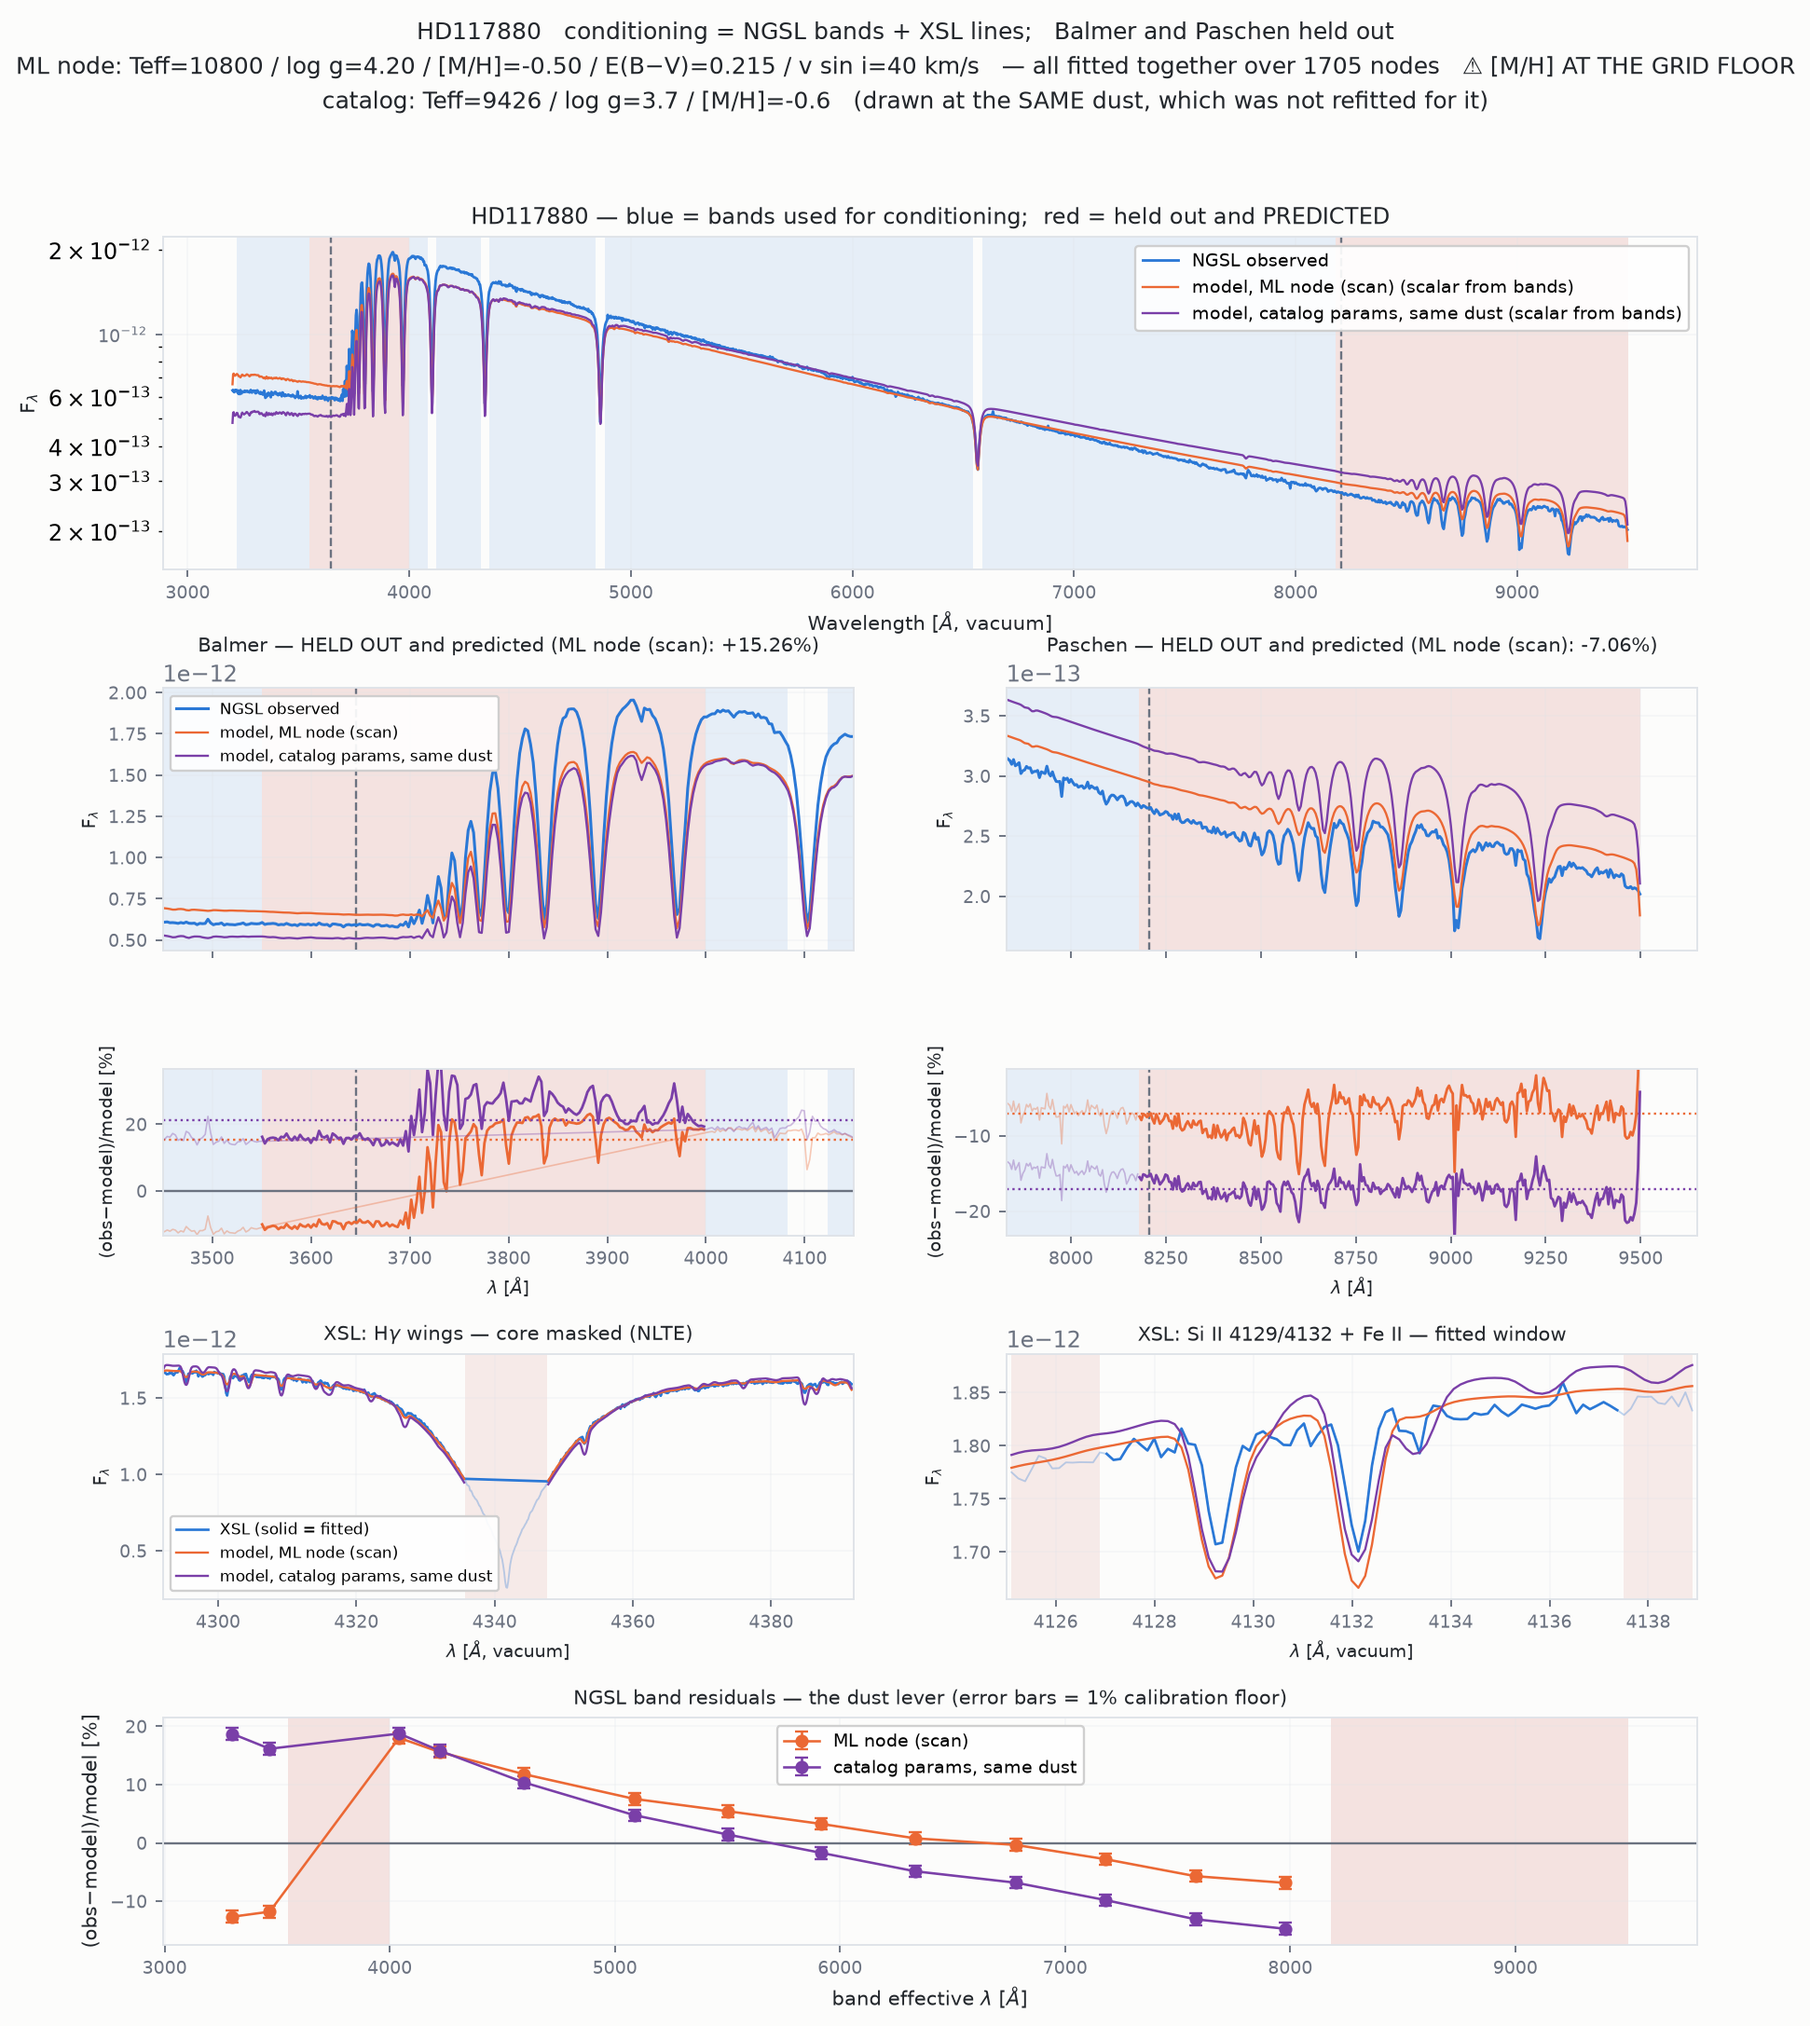
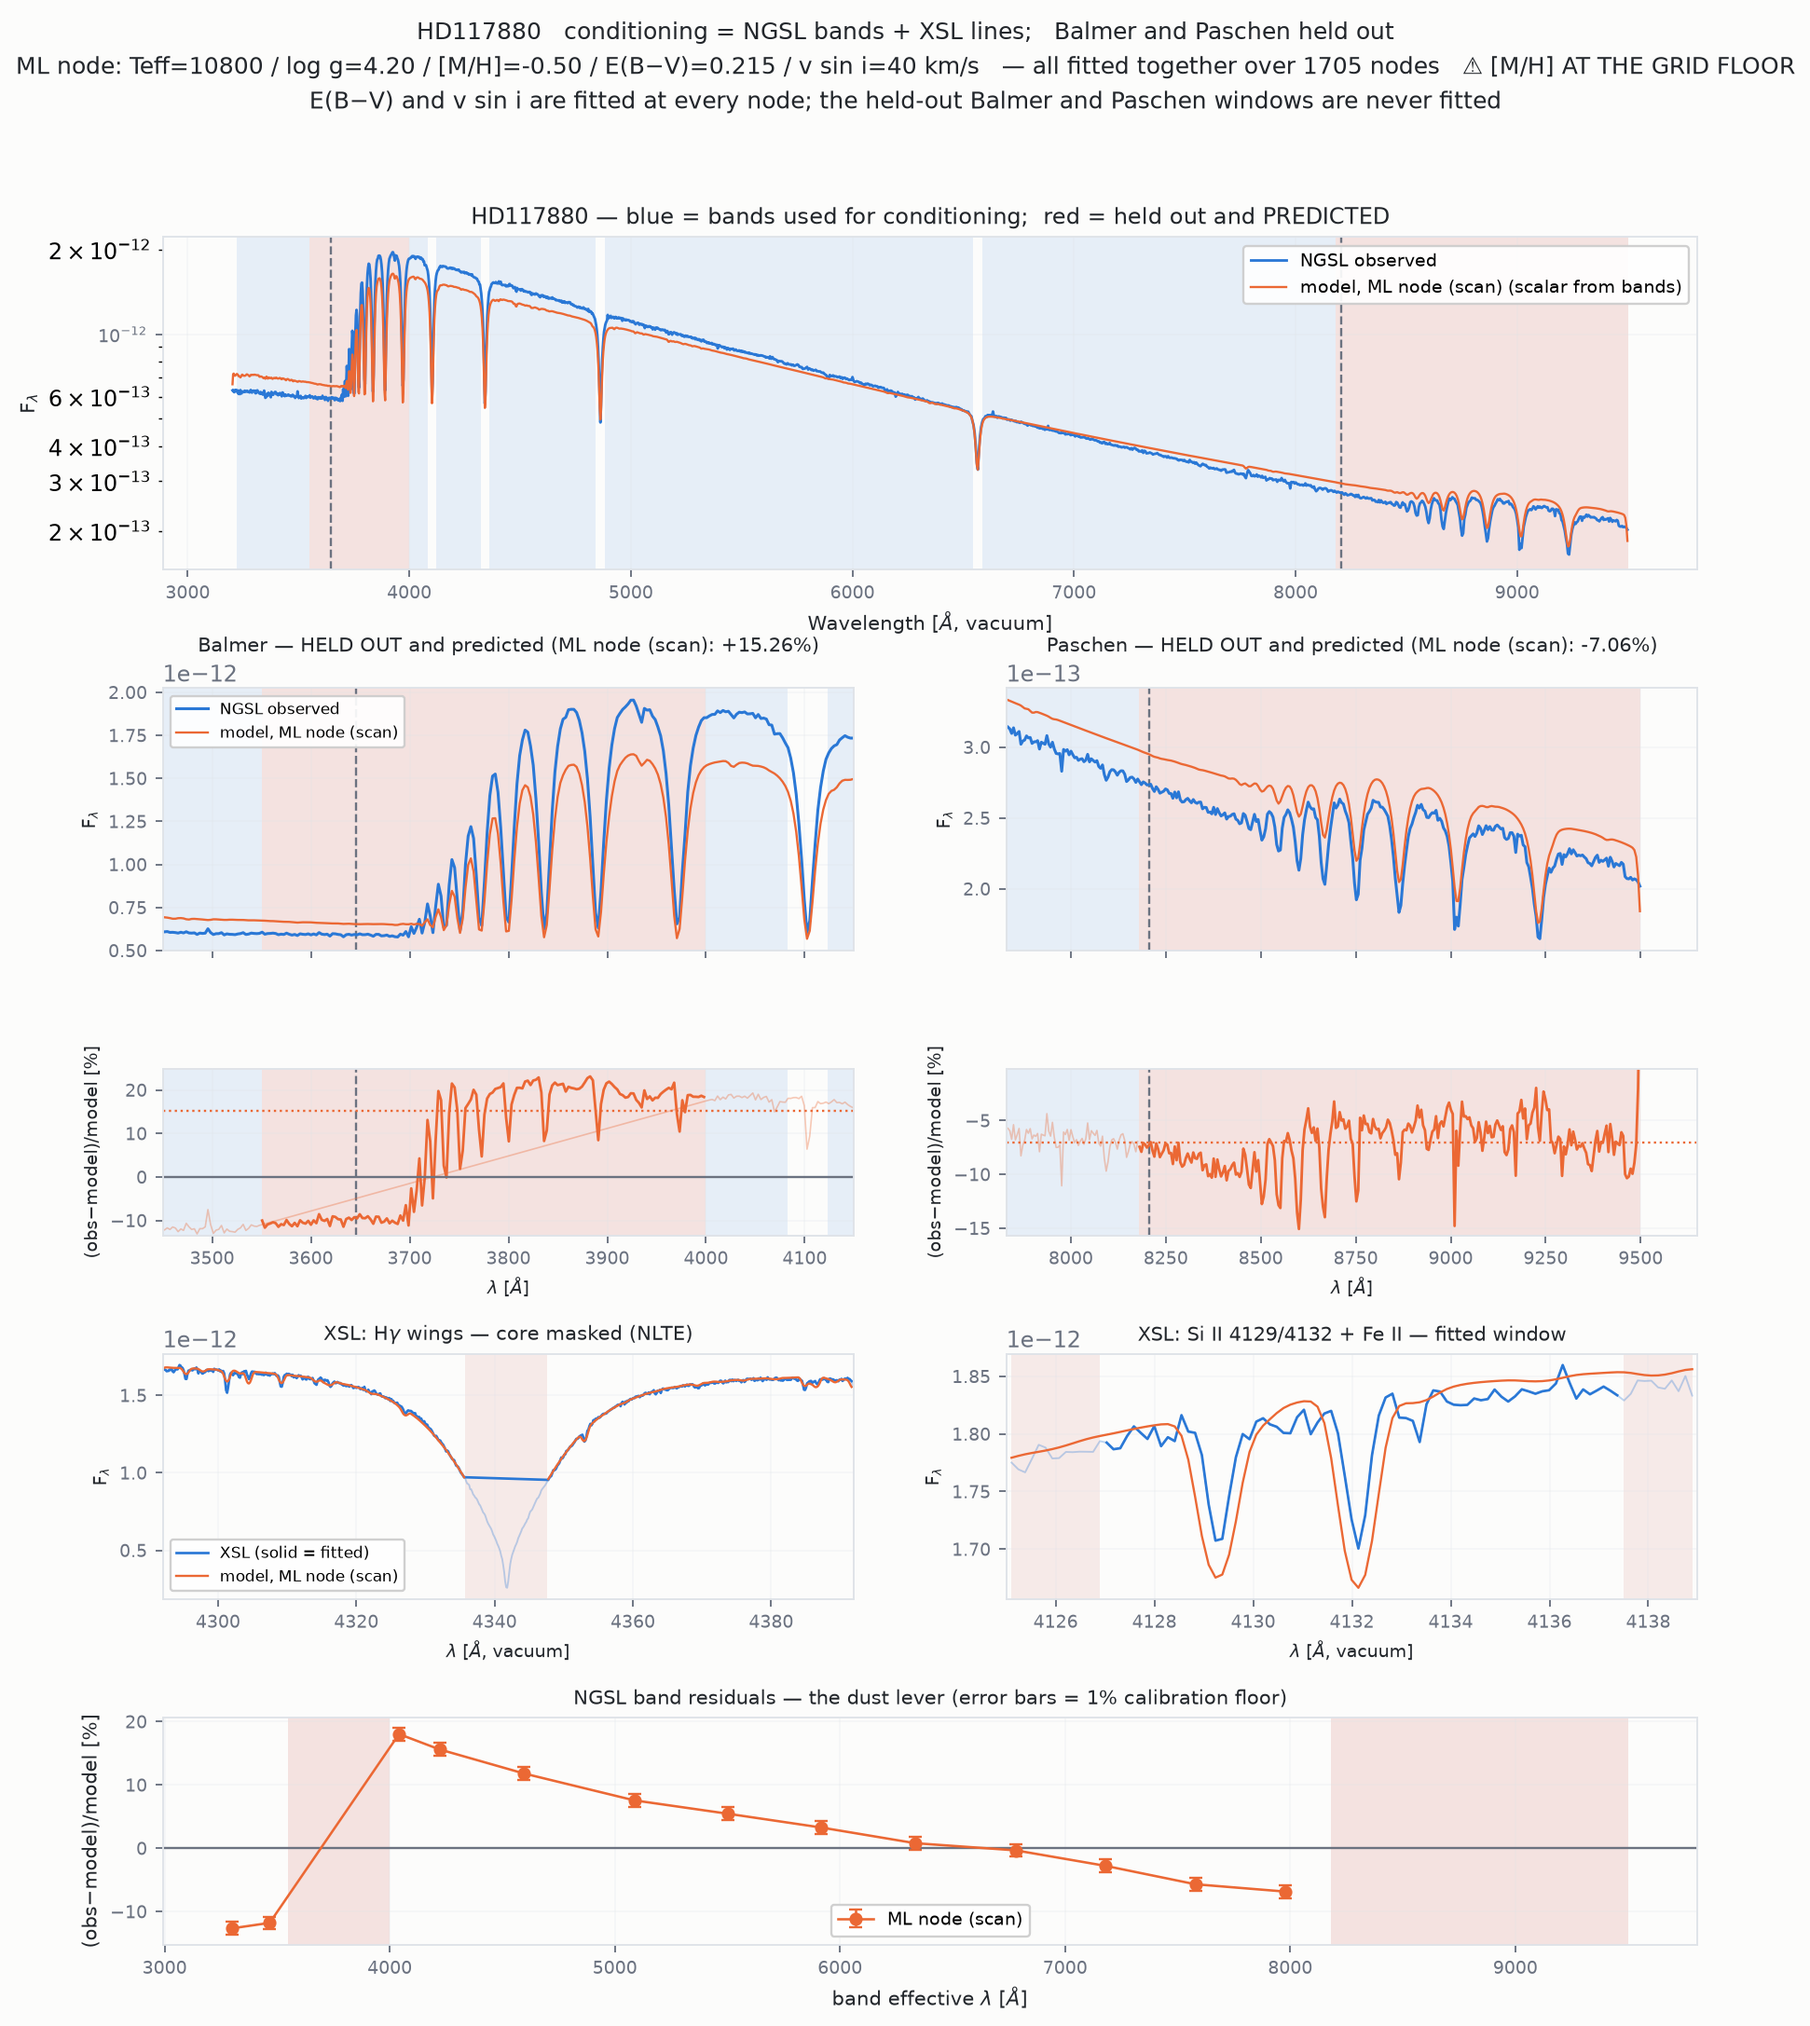
Drop the catalog-parameter curve from predict_check
It had to borrow the ML node's E(B-V) and v sin i, because nothing refit those
for the catalog node -- so its residuals were not those of any fit that was
ever performed. Printed beside the real numbers, a handicapped comparison reads
as a result.

The catalog values are in data/sample.csv, and scan_<star>.png marks them
against the likelihood surface, which is the honest place for that comparison.

diff --git a/explore/check_predict.py b/explore/check_predict.py
@@ -137,12 +137,16 @@ def run(star, a):
     else:
         tn = nearest_node(grid, *t0)
         node_label = 'nearest node'
-    # The catalog curve is drawn at the SAME dust, which was not fitted for it
-    # -- it is a comparison, not a competing fit, and the label says so.
-    thetas = [(f'{node_label}', dict(teff=tn[0], logg=tn[1], mh=tn[2],
-                                     ebv=ebv, vsini=vsini)),
-              ('catalog params, same dust',
-               dict(teff=t0[0], logg=t0[1], mh=t0[2], ebv=ebv, vsini=vsini))]
+    # ONE model: the fitted solution. A second curve at the catalog parameters
+    # used to be drawn alongside it, but it had to borrow this fit's E(B-V) and
+    # v sin i -- nothing refit them for the catalog node -- so its residuals
+    # were not those of any fit that was actually performed, and printing them
+    # next to the real ones invited reading a handicapped comparison as a
+    # result. The catalog values are in data/sample.csv; the node-scan figures
+    # (scan_<star>.png) mark them against the likelihood surface, which is the
+    # honest place for that comparison.
+    thetas = [(node_label, dict(teff=tn[0], logg=tn[1], mh=tn[2],
+                                ebv=ebv, vsini=vsini))]
     print(f'\n  catalog Teff={t0[0]:.0f} logg={t0[1]:.2f} [M/H]={t0[2]:+.2f}  '
           f'-> used Teff={tn[0]:.0f} logg={tn[1]:.2f} [M/H]={tn[2]:+.2f}')
     return _fit_and_draw(star, grid, row, bands, nb, xs, spec, held, thetas,
@@ -340,9 +344,8 @@ def figure(star, nb, spec, xs, held, results, xsl_cal, row, bands,
                  f'v sin i={node["vsini"]:.0f} km/s   — all fitted together '
                  f'over 1705 nodes'
                  + ('   ⚠ [M/H] AT THE GRID FLOOR' if node['at_mh_floor'] else ''))
-        line3 = (f'catalog: Teff={row["teff_ngsl"]} / log g={row["logg_ngsl"]} / '
-                 f'[M/H]={row["mh_ngsl"]}   (drawn at the SAME dust, which was '
-                 f'not refitted for it)')
+        line3 = ('E(B−V) and v sin i are fitted at every node; the held-out '
+                 'Balmer and Paschen windows are never fitted')
     else:
         line2 = (f'nominal Teff={row["teff_ngsl"]} / log g={row["logg_ngsl"]} / '
                  f'[M/H]={row["mh_ngsl"]}')
